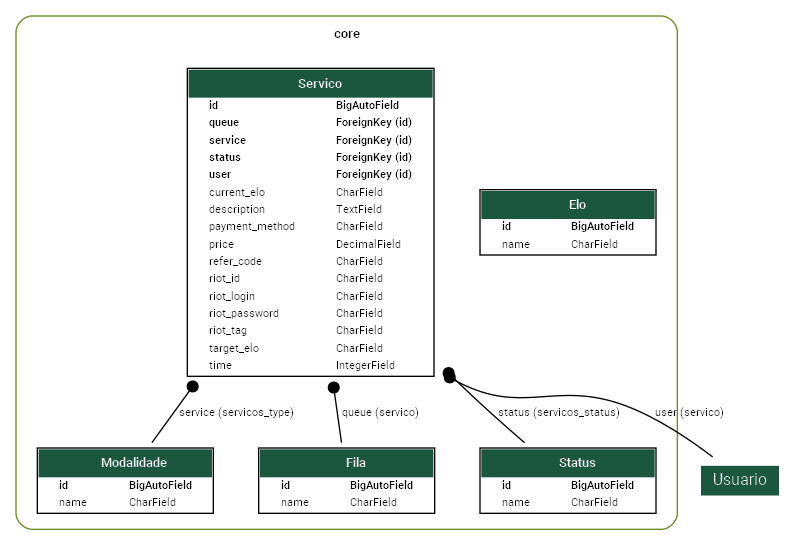
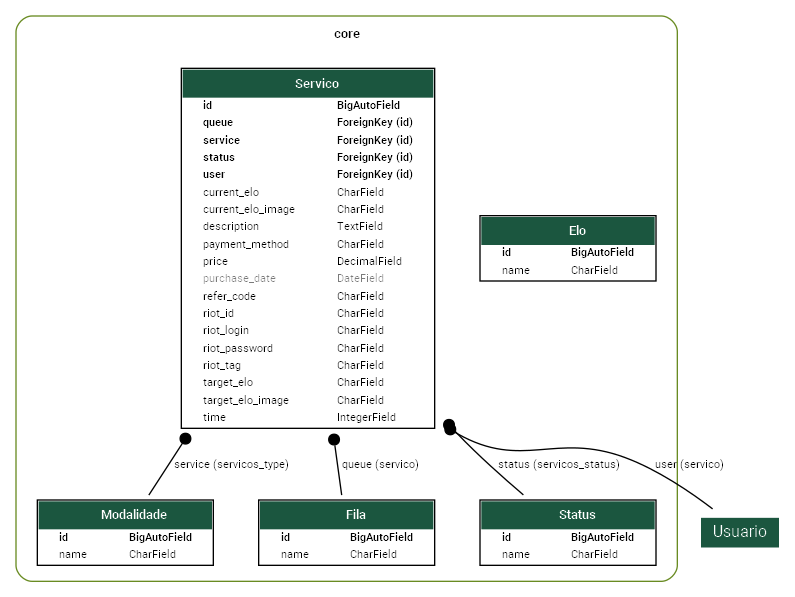
image added

Changed region(s): [[0.0, 0.0, 0.9962, 0.9982], [0.6038, 0.3431, 0.8453, 0.4991], [0.0, 0.0312, 0.0302, 0.0624]]

diff --git a/core/models/servico.py b/core/models/servico.py
@@ -24,7 +24,9 @@ class Servico(models.Model):
     queue = models.ForeignKey(Fila, on_delete=models.PROTECT, null=True, default=1)
     status = models.ForeignKey(Status, related_name="servicos_status", on_delete=models.PROTECT, null=True, default=1)
     current_elo = models.CharField(max_length=50, null=True)
+    current_elo_image = models.CharField(max_length=100, null=True)
     target_elo = models.CharField(max_length=50, null=True)
+    target_elo_image = models.CharField(max_length=100, null=True)
     description = models.TextField(max_length=500, null=True)
     riot_login = models.CharField(max_length=50, null=True)
     riot_password = models.CharField(max_length=50, null=True)
@@ -34,6 +36,7 @@ class Servico(models.Model):
     riot_id = models.CharField(max_length=50, null=True)
     riot_tag = models.CharField(max_length=50, null=True, default="#BR1")
     time = models.IntegerField(null=True)
+    purchase_date = models.DateField(auto_now_add=True, null=True)  # Adiciona automaticamente a data da compra
 
     def __str__(self):
         current_elo_name = self.current_elo.nome if isinstance(self.current_elo, Elo) else self.current_elo

diff --git a/core/migrations/0005_alter_servico_time_alter_servico_user.py b/core/migrations/0005_alter_servico_time_alter_servico_user.py
@@ -1,0 +1,27 @@
+# Generated by Django 4.2.7 on 2023-12-08 10:38
+
+from django.conf import settings
+from django.db import migrations, models
+import django.db.models.deletion
+
+
+class Migration(migrations.Migration):
+    dependencies = [
+        migrations.swappable_dependency(settings.AUTH_USER_MODEL),
+        ("core", "0004_alter_servico_current_elo_alter_servico_description_and_more"),
+    ]
+
+    operations = [
+        migrations.AlterField(
+            model_name="servico",
+            name="time",
+            field=models.IntegerField(null=True),
+        ),
+        migrations.AlterField(
+            model_name="servico",
+            name="user",
+            field=models.ForeignKey(
+                default=1, null=True, on_delete=django.db.models.deletion.PROTECT, to=settings.AUTH_USER_MODEL
+            ),
+        ),
+    ]

diff --git a/core/migrations/0008_servico_current_elo_image_servico_target_elo_image.py b/core/migrations/0008_servico_current_elo_image_servico_target_elo_image.py
@@ -1,0 +1,22 @@
+# Generated by Django 4.2.7 on 2023-12-08 10:57
+
+from django.db import migrations, models
+
+
+class Migration(migrations.Migration):
+    dependencies = [
+        ("core", "0007_alter_servico_purchase_date"),
+    ]
+
+    operations = [
+        migrations.AddField(
+            model_name="servico",
+            name="current_elo_image",
+            field=models.CharField(max_length=100, null=True),
+        ),
+        migrations.AddField(
+            model_name="servico",
+            name="target_elo_image",
+            field=models.CharField(max_length=100, null=True),
+        ),
+    ]

diff --git a/core/migrations/0006_servico_purchase_date.py b/core/migrations/0006_servico_purchase_date.py
@@ -1,0 +1,17 @@
+# Generated by Django 4.2.7 on 2023-12-08 10:41
+
+from django.db import migrations, models
+
+
+class Migration(migrations.Migration):
+    dependencies = [
+        ("core", "0005_alter_servico_time_alter_servico_user"),
+    ]
+
+    operations = [
+        migrations.AddField(
+            model_name="servico",
+            name="purchase_date",
+            field=models.DateTimeField(auto_now_add=True, null=True),
+        ),
+    ]

diff --git a/core/migrations/0007_alter_servico_purchase_date.py b/core/migrations/0007_alter_servico_purchase_date.py
@@ -1,0 +1,17 @@
+# Generated by Django 4.2.7 on 2023-12-08 10:43
+
+from django.db import migrations, models
+
+
+class Migration(migrations.Migration):
+    dependencies = [
+        ("core", "0006_servico_purchase_date"),
+    ]
+
+    operations = [
+        migrations.AlterField(
+            model_name="servico",
+            name="purchase_date",
+            field=models.DateField(auto_now_add=True, null=True),
+        ),
+    ]
